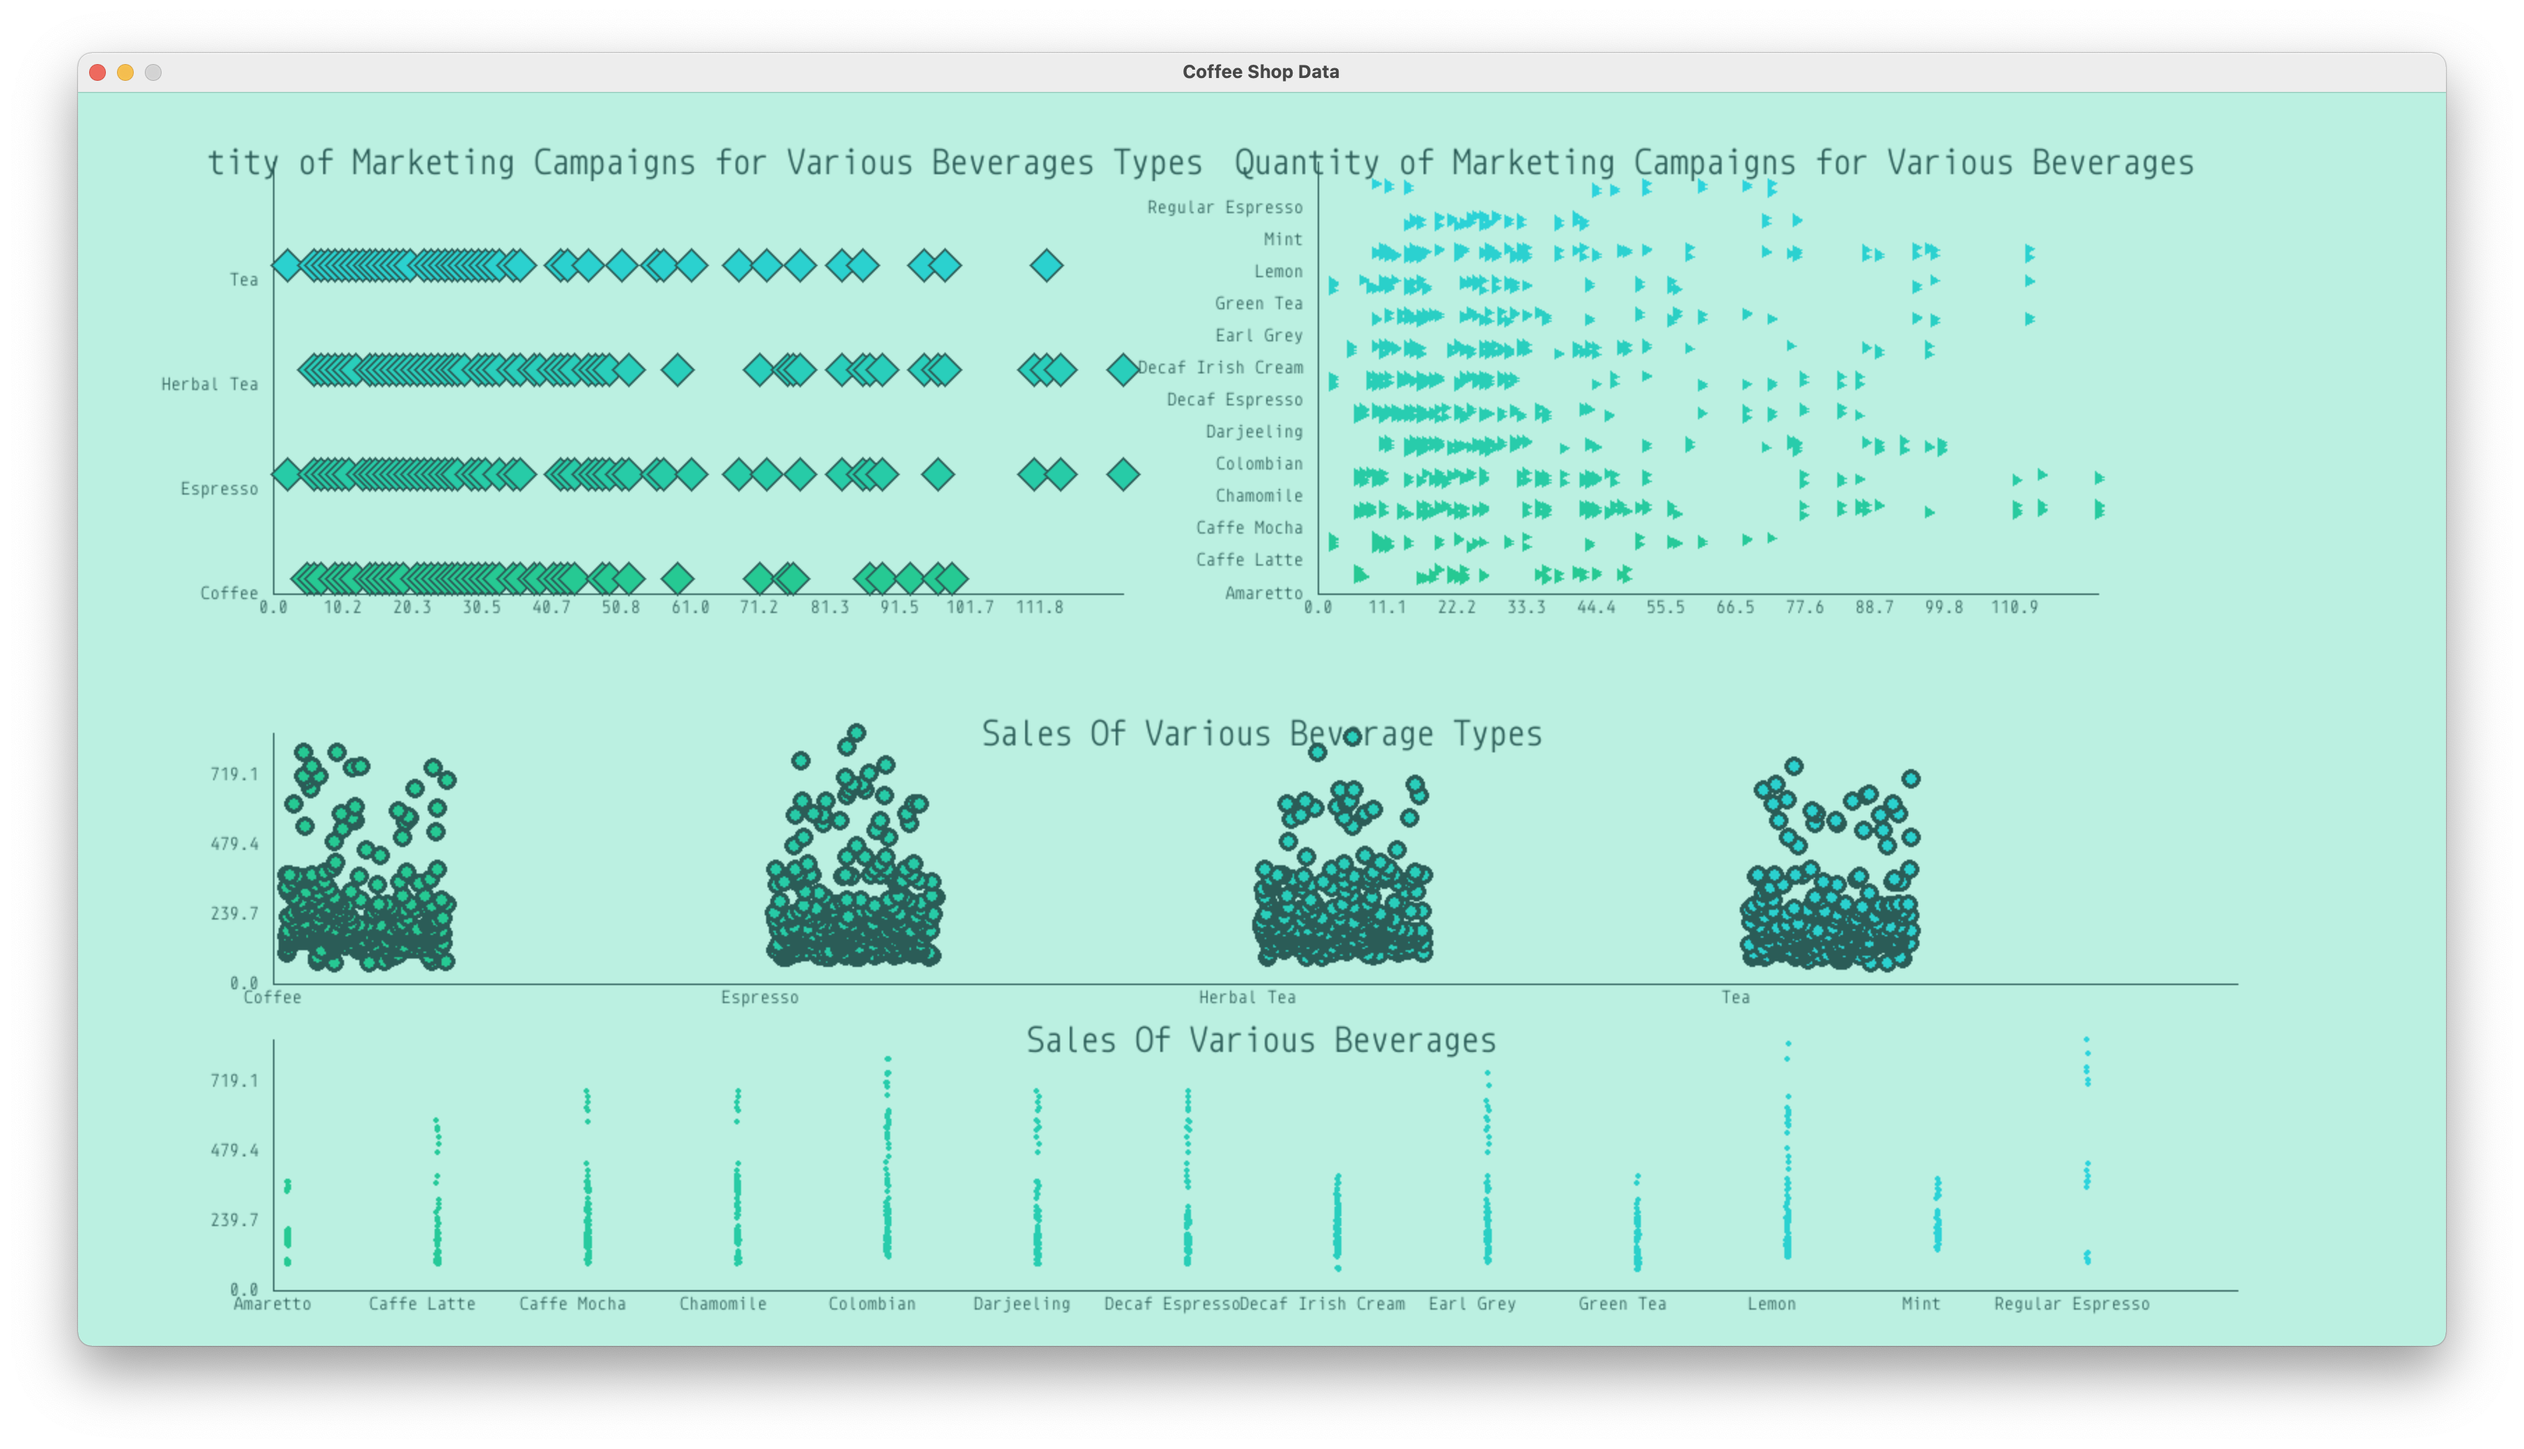
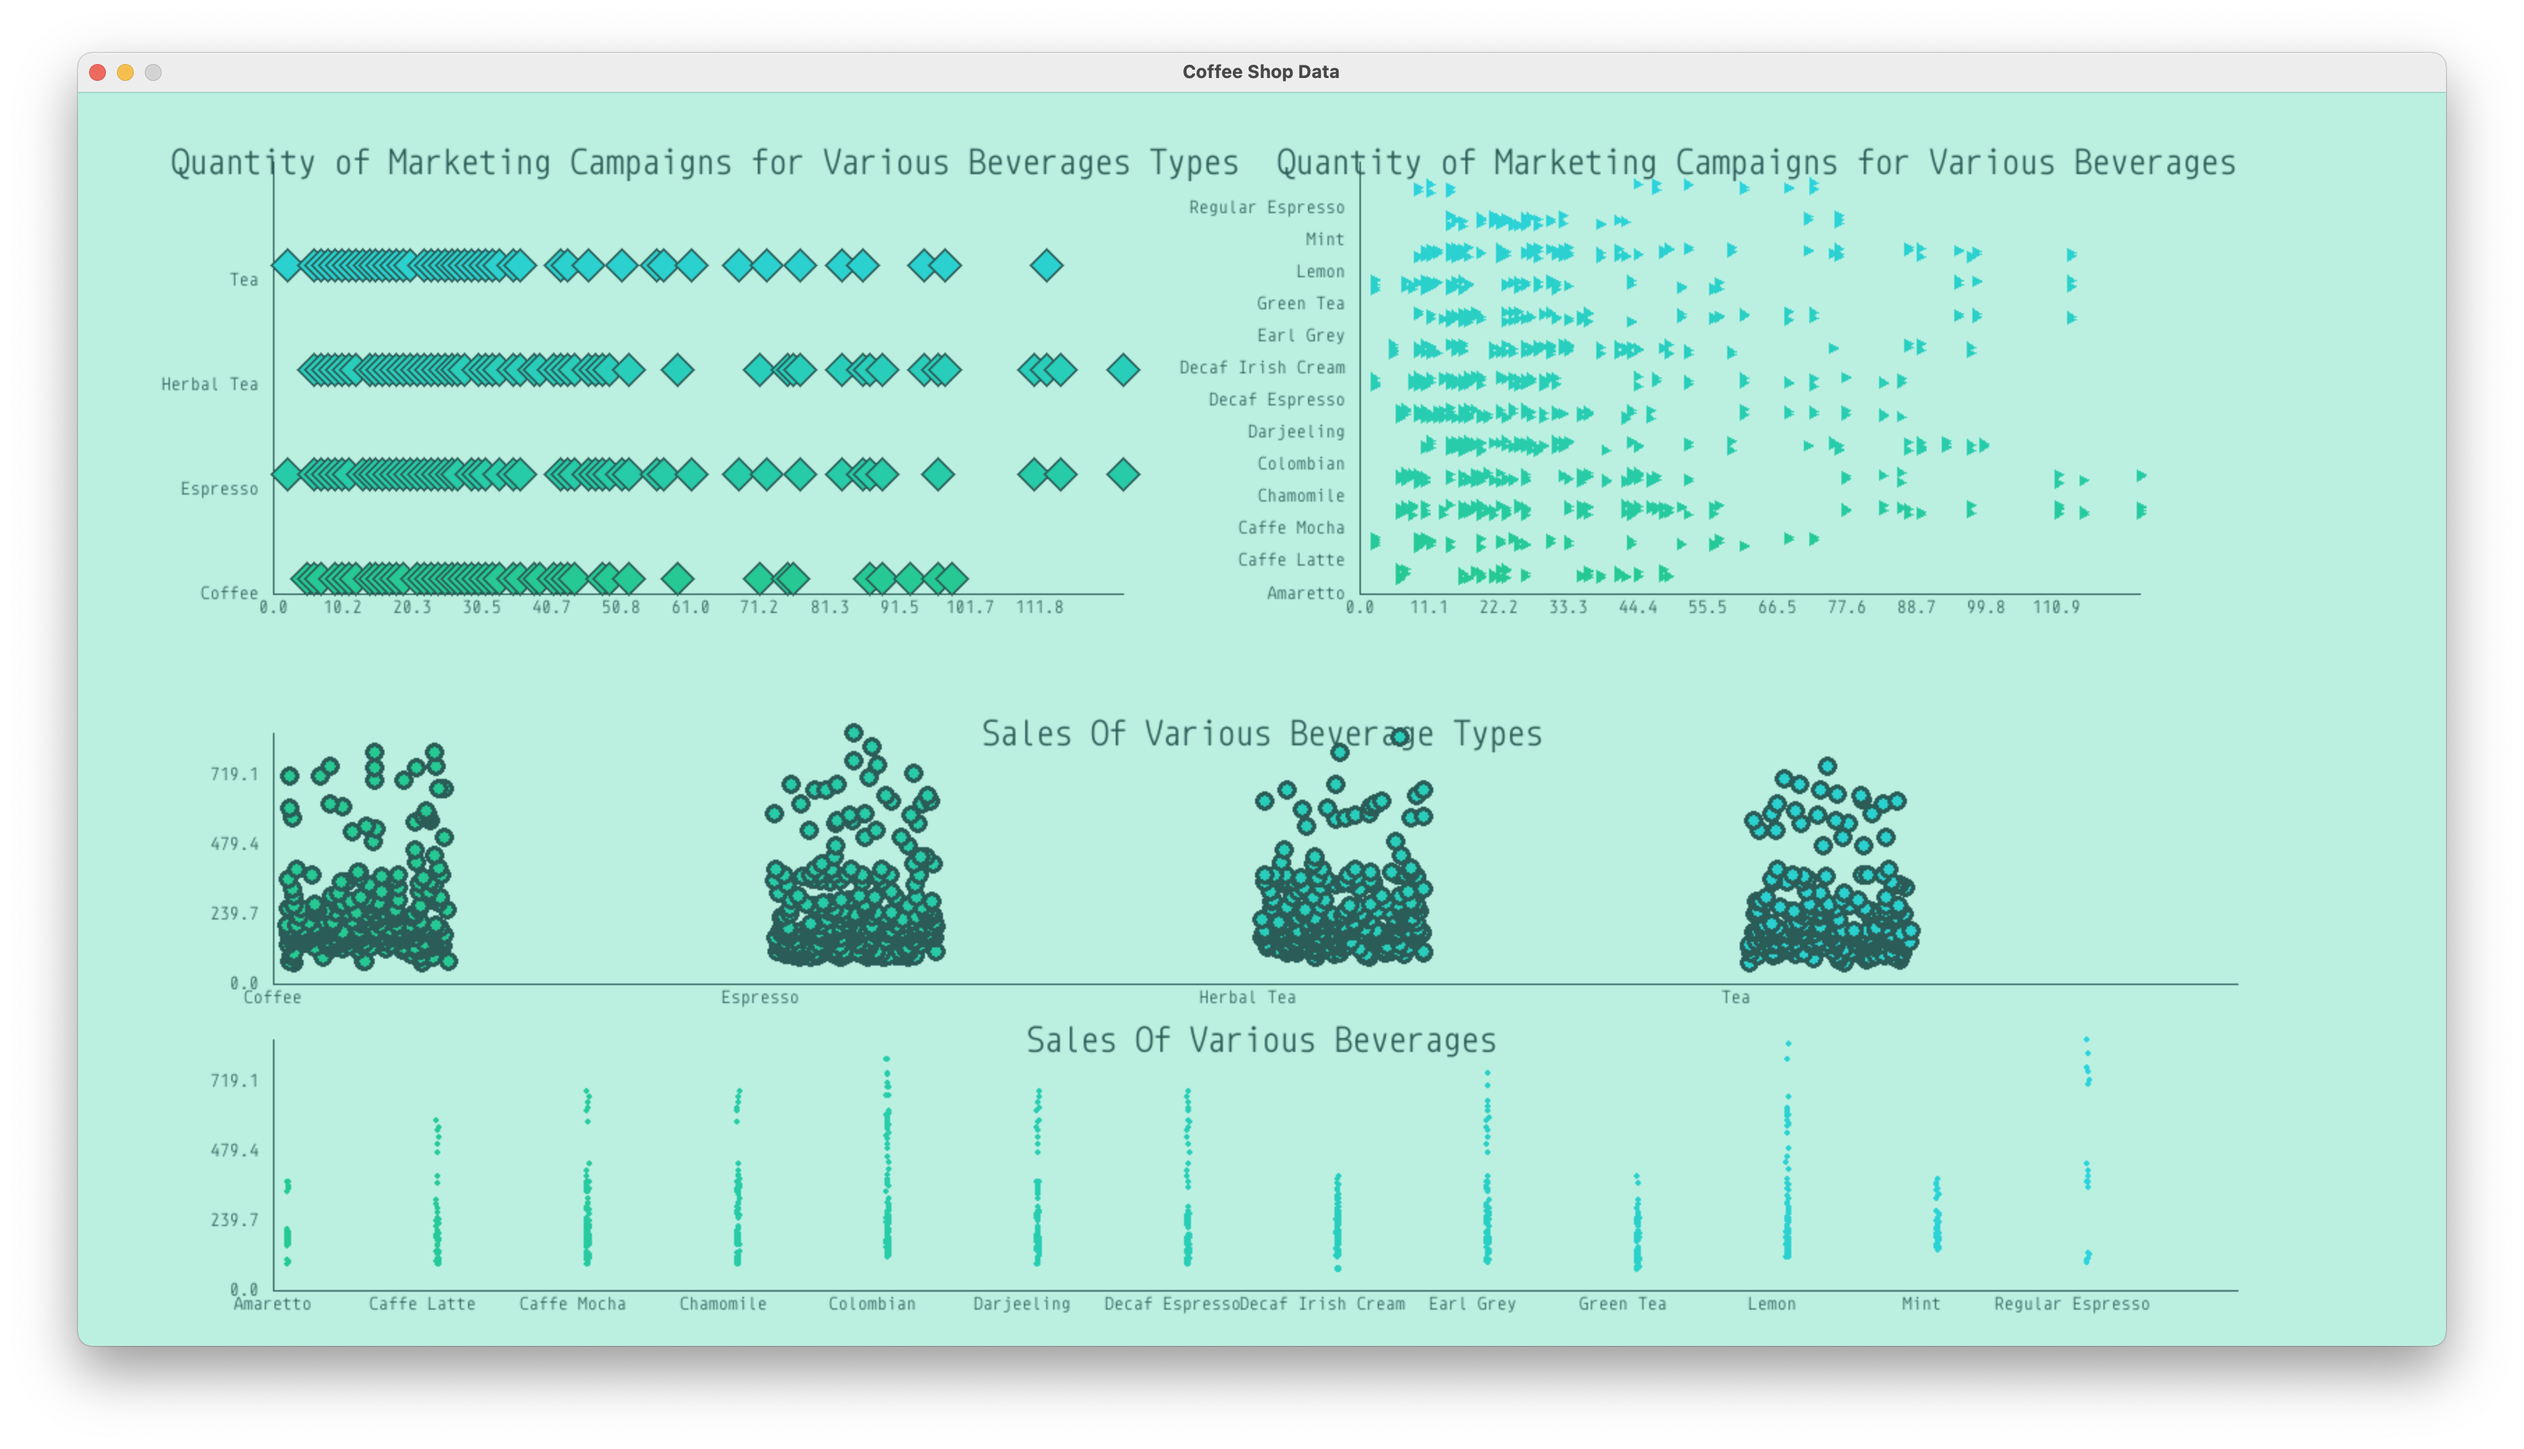
added the fourth visualization for the set

diff --git a/PART IV/main.py b/PART IV/main.py
@@ -1,0 +1,73 @@
+import pygame
+import pandas as pd
+import numpy as np
+import sys
+
+
+import coffee.color as c
+import coffee.palletts as p
+
+import coffee.pyg as pg
+import coffee.graphers as g
+import coffee.grapher as go
+import coffee.graph_props as m
+
+xls = pd.ExcelFile(
+    "independent_work/Coffee Chain Visualization/PART I/data/Coffee Chain.xlsx"
+)
+data = pd.read_excel(xls, "Coffee Chain")
+
+width = 1700
+height = 900
+
+active_pallett = p.milk_shake
+
+handler = pg.handler( width, height, title="Coffee Shop Data")
+main = go.Grapher(handler, (1700, 1000))
+
+domain = m.domain(
+        pos=(90, 30),
+        size=( width / 2 - 100, height - 100 ))
+domain2 = m.domain(
+        pos=(width / 2 + 100, 30),
+        size=( width / 2 - 150, height - 100 ))
+
+area = g.area(main, data, "Marketing", "count()", "Product Type",  
+    domain=domain,
+    pallett=active_pallett,
+    title="Quantity of Marketing Campaigns for Various Beverages Types",
+).series_axis.update_visibility(False
+).value_axis.update_visibility(False
+).domain.update_visibility(False
+).point.update_visibility(False)
+
+distribution = g.distribution(main, data, ["Marketing"], "Product Type",  
+    dir=0,
+    domain=domain,
+    pallett=active_pallett,
+    title="",
+)
+
+area2 = g.area(main, data, "Profit", "count()", "Product Type",  
+    domain=domain2,
+    pallett=active_pallett,
+    title="Profit for Various Beverages Types",
+).series_axis.update_visibility(False
+).value_axis.update_visibility(False
+).domain.update_visibility(False
+).point.update_visibility(False)
+
+distribution2 = g.distribution(main, data, ["Profit"], "Product Type",  
+    dir=0,
+    domain=domain2, 
+    pallett=active_pallett,
+    title="",
+)
+
+
+main.graphs = [ distribution, area, distribution2, area2]
+main.handler.screen.fill( active_pallett.back_RGB )
+main.render()
+
+
+handler.start()

diff --git a/PART II/main.py b/PART II/main.py
@@ -9,8 +9,8 @@ import b_grapher.palletts as p
 
 import b_grapher.pyg as pg
 import b_grapher.graphers as g
-import b_grapher.grapher as go
-import b_grapher.graph_props as m
+import coffee.grapher as go
+import coffee.graph_props as m
 
 xls = pd.ExcelFile(
     "independent_work/Coffee Chain Visualization/PART I/data/Coffee Chain.xlsx"

diff --git a/PART IV/readME.md b/PART IV/readME.md
@@ -1,0 +1,20 @@
+# PART II
+
+--- 
+
+![Image](https://github.com/Brian-Masse/Coffee-Chain-Visualization/blob/main/PART%20II/exports/final.png)
+
+In this visualization, described by "Distribution: Strips", I thought it would be a good idea to look into how I can rotate the axes and their data. Specifically, how I could get the values vertically, and the series horizontally (creating different “strips” so it fits the prompt of this project perfectly! ) I felt that this was a good next step, as I assumed that this would likely involve restructuring some of my code to make it more object oriented, and thus give it a stronger, more versatile foundation to rest on. *(turns out, I was right!)* 
+
+This update to the grapher gives a much more solid foundation for the entire system, as it enables use of common features across graphs (```domain```, ```axis```) without tying them to any specific visualization (ie. A distribution vis), and an easy way to customize them, without needing to tunnel into the actual structure of the objects. Accomplishing this rotation was both a combination of making certain elements of a vis into specific objects, and some fancy math for positioning everything. The customization is silly a growing list of functions that alters a part of the graph (or one of its properties), and then returns the graph, so a user can chain customizing functions together. While the resulting graph does not look all top dissimilar from the first one in part I, the infrastructure that enables it is far superior!
+
+In this visualization, as I did last time, I chose the series from the data mostly at random. Here however, I modeled 4 series, so I could showcase the different orientation / layout possibilities that my system now offers!I am super excited to continue to work on this module to create an even more well-rounded, applicable system!
+
+---
+
+## Here are all my links:
+1. [data](https://data.world/2918diy/coffee-chain)
+2. [grapher](https://github.com/Brian-Masse/B_grapher) commit 4, ```rotating the axes```
+3. [Part I]( https://github.com/Brian-Masse/Coffee-Chain-Visualization/tree/main/PART%20I )
+4. [Inspiration Project](https://github.com/Brian-Masse/Animals-life-expectancy)
+
